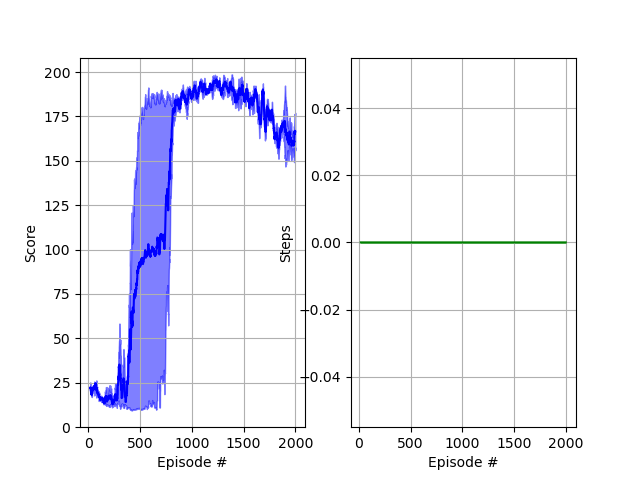
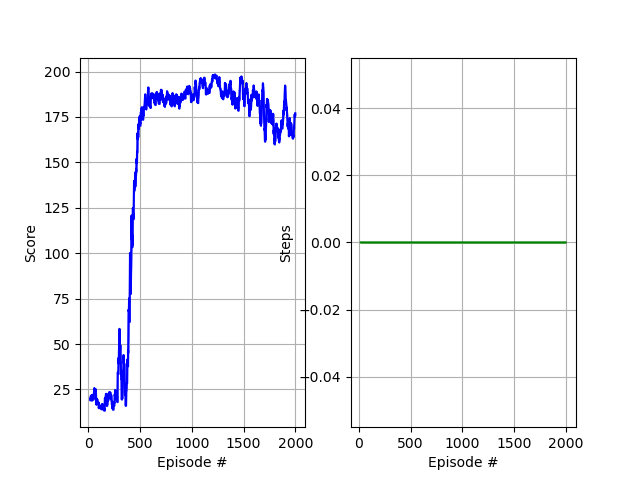
Update utils

Changed region(s): [[0.0625, 0.1562, 0.4688, 0.875], [0.0625, 0.125, 0.0938, 0.1875], [0.0938, 0.875, 0.125, 0.9062]]

diff --git a/visualise.py b/visualise.py
@@ -7,10 +7,12 @@ if __name__ == '__main__':
 	# read out npy files
 	stats = []
 	num_episodes = 2000
-	for i in range(2):
+	for i in range(1):
 		stat = Stats(2000)
 		with open('trial' + str(i) + '.npz', 'rb') as f:
 			data = np.load(f)
+			print('reward:', data['reward'])
+			print('step:', data['step'])
 			stat.episode_rewards = data['reward'] 
 			stat.episode_steps = data['step'] 
 		stats.append(stat)
@@ -21,4 +23,6 @@ if __name__ == '__main__':
 
 	ax2 = fig.add_subplot(122)
 	plot_steps(ax2, stats, 20)
+
+	plt.tight_layout()
 	plt.savefig('test.png')
